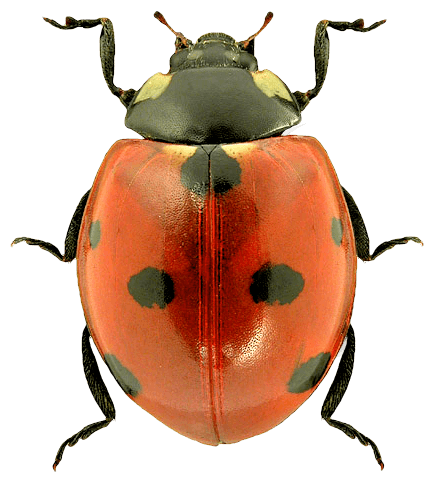
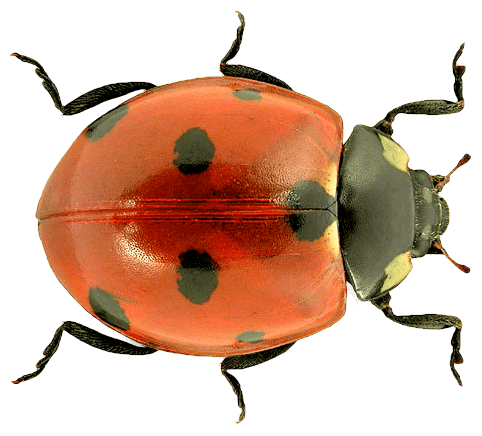
Upgraded the R.A.T.S system to house more insects

diff --git a/Miscellaneous.py b/Miscellaneous.py
@@ -11,10 +11,11 @@ class Rat:
     Jerry refused to feature in this part (he was showing too much attitude)
     """
     def __init__(self, screen):
-        self.surf = pygame.image.load(r'images\mouse.png')
-        dimensions = self.surf.get_size()
-        scale_factor = 0.2
-        self.image = pygame.transform.smoothscale(self.surf, (dimensions[0]*scale_factor, dimensions[1]*scale_factor))
+        self.surfs = [pygame.transform.smoothscale(pygame.transform.rotate(pygame.image.load(r'images\R-A-T-S\mouse.png'), 16), (120, 77)),
+                      pygame.transform.smoothscale(pygame.image.load(r'images\R-A-T-S\ant.png'), (600//7, 435//7)),
+                      pygame.transform.smoothscale(pygame.image.load(r'images\R-A-T-S\ladybug.png'), (482//8, 436//8)),
+                      pygame.transform.smoothscale(pygame.image.load(r'images\R-A-T-S\laserdot.png').subsurface((126-22, 126-22, 44, 44)), (30, 30))]
+        self.image = random.choice(self.surfs)
         
         self.screen = screen
         self.center = np.array([0, 0])  # This is center pos.
@@ -22,7 +23,6 @@ class Rat:
         self.vel = np.array([0, 0])
         
         self.max_angular_vel = 5
-        self.angle_offset = 16
         self.exist = False
         
         self.kill()
@@ -33,7 +33,7 @@ class Rat:
         This is what Walt Disney did (he drew stuff)
         """
         if self.exist:
-            self.rotated_image = pygame.transform.rotate(self.image, (-self.angle+self.angle_offset))
+            self.rotated_image = pygame.transform.rotate(self.image, (-self.angle))
             self.rot_rect = self.rotated_image.get_rect()
             self.rot_rect.center = self.center
             self.screen.blit(self.rotated_image, (self.center[0]-self.rot_rect.width//2, self.center[1]-self.rot_rect.height//2))
@@ -82,11 +82,13 @@ class Rat:
         return self.rot_rect.colliderect(self.screen.get_rect())
     
     def spawn(self):
+        self.image = random.choice(self.surfs)
+        
         self.exist = True
         self.center[0], self.center[1] = random.randint(0, WIDTH), random.randint(0, HEIGHT)
         self.angle = random.randint(0, 360)
         
-        self.rotated_image = pygame.transform.rotate(self.image, (-self.angle+self.angle_offset))
+        self.rotated_image = pygame.transform.rotate(self.image, (-self.angle))
         self.rot_rect = self.rotated_image.get_rect()
         self.rot_rect.center = self.center
         
